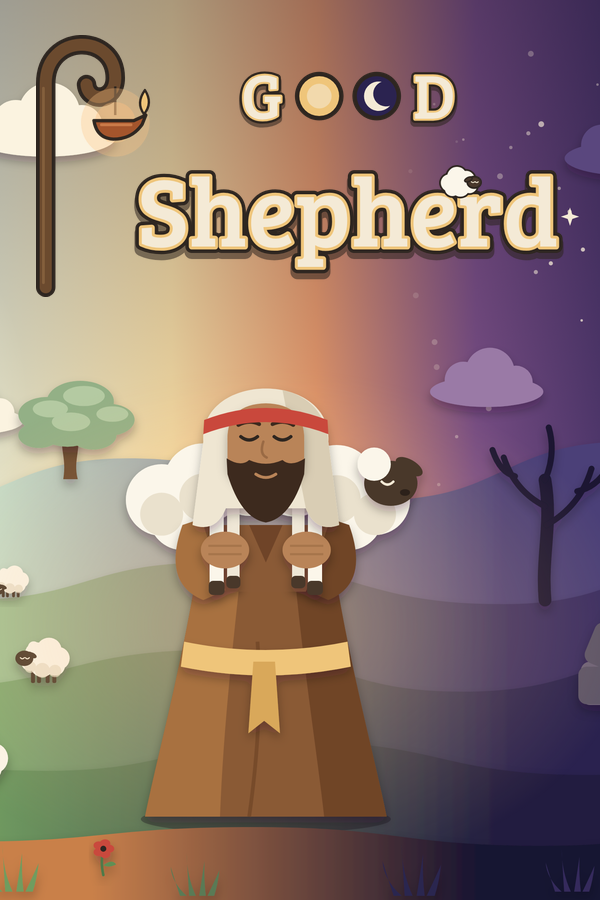
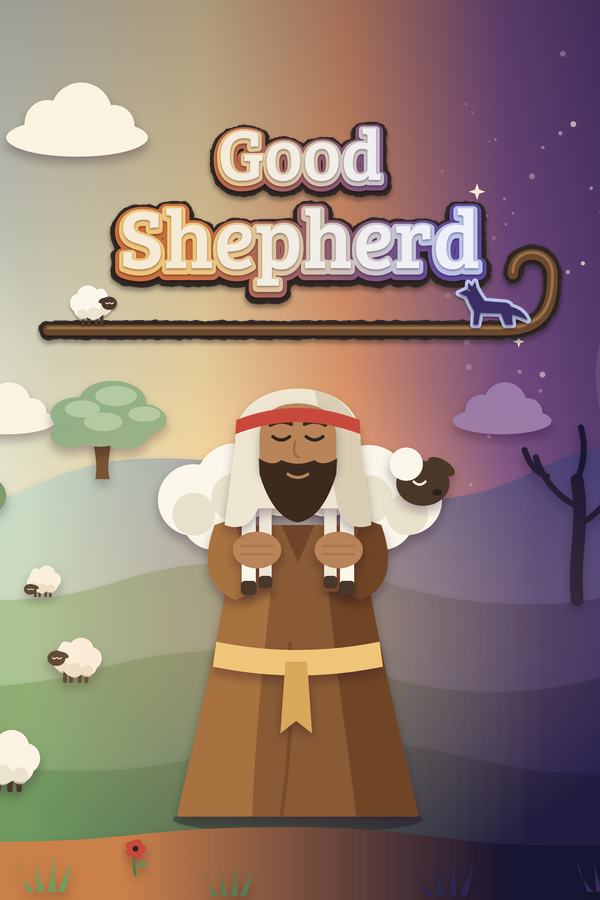
Title as layered cut paper, clear of the shepherd and of the top-left corner
- lettering built from stacked sheets (torn dark back, two coloured sheets, the face), turning from
  day colours to night colours left to right; the staff lies under it with a sheep on its day end
  and a wolf on its night end; no sun or moon in the word
- wide formats carry the name on the night sky to the shepherd's right, tall ones above him with
  the top band clear; the small capsule puts him at the left edge and the name beside him
- the moon sits low behind the wolf on the ridge, leaving the sky above for the name

Claude-Session: https://claude.ai/code/session_01VpcujKa2SduHoRcPjGQsic

diff --git a/tools/brand.py b/tools/brand.py
@@ -70,34 +70,73 @@ def sheep(cx, cy, s=1.0, face_right=True):
         f'<path d="M{hx-10*s},{cy} q{6*s},{6*s} {12*s},0 M{hx+4*s},{cy} q{5*s},{6*s} {10*s},0" stroke="{PAPER}" stroke-width="{3.2*s}" fill="none" stroke-linecap="round"/>')
 
 
+def paper_defs(w):
+    """Filters and the day-to-night gradients the title's sheets are cut from."""
+    def lg(i, a, b):
+        return (f'<linearGradient id="{i}" gradientUnits="userSpaceOnUse" x1="0" y1="0" x2="{w}" y2="0"><stop offset=".30" stop-color="{a}"/>'
+                f'<stop offset=".78" stop-color="{b}"/></linearGradient>')
+    return ('<defs><filter id="lp" x="-10%" y="-25%" width="120%" height="160%"><feDropShadow dx="0" dy="7" stdDeviation="6" flood-color="#120c18" flood-opacity=".5"/></filter>'
+            '<filter id="lp2" x="-10%" y="-25%" width="120%" height="160%"><feDropShadow dx="0" dy="3" stdDeviation="2.5" flood-color="#120c18" flood-opacity=".42"/></filter>'
+            '<filter id="paper" x="-20%" y="-20%" width="140%" height="150%"><feDropShadow dx="0" dy="4" stdDeviation="3" flood-color="#120c18" flood-opacity=".45"/></filter>'
+            # the back sheet is torn, not cut: a rough edge, as on an old dungeon map
+            '<filter id="torn" x="-10%" y="-25%" width="120%" height="160%"><feTurbulence type="fractalNoise" baseFrequency="0.045" numOctaves="2" seed="4" result="n"/>'
+            '<feDisplacementMap in="SourceGraphic" in2="n" scale="9" xChannelSelector="R" yChannelSelector="G" result="d"/>'
+            '<feDropShadow in="d" dx="0" dy="7" stdDeviation="6" flood-color="#120c18" flood-opacity=".5"/></filter>'
+            + lg("sh2", "#c9703f", "#5f4a9a") + lg("sh3", GOLD, "#b9c2ea") + lg("face", PAPER, "#eef0fa") + '</defs>')
+
+
+# the sheets of the lettering, back to front: (fill, how far it shows round the letter as a share of the size)
+SHEETS = [(INK, 0.150), ("url(#sh2)", 0.098), ("url(#sh3)", 0.050)]
+
+
+def paper_text(text, x, y, size, anchor="middle", spacing=0):
+    """Layered cut-paper lettering: a torn dark sheet at the back, then two coloured sheets, each
+    smaller than the one under it and casting its own shadow, then the face. Left to right the
+    sheets turn from the day's colours (terracotta, gold, cream) to the night's (plum, moonlight)."""
+    a = f'x="{x}" y="{y}" font-size="{size}" text-anchor="{anchor}" letter-spacing="{spacing}"'
+    out = ""
+    for k, (col, grow) in enumerate(SHEETS):
+        drop = size * 0.022 * (len(SHEETS) - k)
+        out += (f'<g filter="url(#{"torn" if k == 0 else "lp2"})"><text {a} transform="translate(0,{drop:.1f})" fill="{col}" stroke="{col}" '
+                f'stroke-width="{size*grow*2:.1f}">{text}</text></g>')
+    return out + f'<g filter="url(#lp2)"><text {a} fill="url(#face)">{text}</text></g>'
+
+
+def paper_staff(x0, x1, y, s=1.0):
+    """The crook lying on its side under the name, layered like the letters, its hook rising at
+    the right; a sheep stands on its day end and a wolf on its night end, facing each other."""
+    d = f"M{x0},{y} L{x1-120*s},{y} C{x1-10*s},{y} {x1},{y-70*s} {x1},{y-130*s} C{x1},{y-200*s} {x1-96*s},{y-200*s} {x1-96*s},{y-136*s}"
+    out = f'<g filter="url(#torn)"><path d="{d}" fill="none" stroke="{INK}" stroke-width="{46*s}" stroke-linecap="round" stroke-linejoin="round"/></g>'
+    out += f'<g filter="url(#lp2)"><path d="{d}" fill="none" stroke="{WOOD}" stroke-width="{26*s}" stroke-linecap="round" stroke-linejoin="round"/></g>'
+    out += f'<path d="{d}" fill="none" stroke="#9a7048" stroke-width="{7*s}" stroke-linecap="round" stroke-linejoin="round" transform="translate(0,{-5*s})"/>'
+    top = y - 13 * s
+    out += scene.sheep(x0 + 104 * s, top - 74 * 0.7 * s, 0.7 * s, True)
+    wx = x1 - 150 * s
+    # the wolf is cut from night paper with a moonlit sheet behind it, so it shows on any ground
+    rim = scene.wolf(wx, top, 0.36 * s, "#b9c2ea")
+    out += (f'<g transform="translate({2*wx},0) scale(-1,1)"><g stroke="#b9c2ea" stroke-width="{16*s}" stroke-linejoin="round">{rim}</g>'
+            f'{scene.wolf(wx, top, 0.36 * s, "#3a2f62")}</g>')
+    return out
+
+
 def logo_stacked(w=1280, h=720, tagline=True, with_crook=True):
-    cx = 770
-    g = ['<g>']
-    if with_crook:   # (left off where the art already shows the shepherd's own crook)
-        g.append(crook(118, 70, 600, 1.0))
-    # GOOD, with a sun and a moon for its two O's: the day and the night of the game
-    g.append(layered("G", cx - 186, 236, 138))
-    g.append(sun(cx - 62, 187, 43))
-    g.append(moon(cx + 62, 187, 43))
-    g.append(layered("D", cx + 186, 236, 138))
-    g.append(layered("Shepherd", cx, 512, 212))
-    g.append(sheep(1010, 372, 0.62))   # one lamb, up on the letters
+    """The title: two lines of layered paper lettering over the shepherd's staff, a sheep on one
+    end of it and a wolf on the other."""
+    g = [paper_defs(w)]
+    g.append(paper_text("Good", 640, 232, 176))
+    g.append(paper_text("Shepherd", 640, 446, 204))
+    if with_crook:
+        g.append(paper_staff(30, 1252, 596))
     if tagline:
-        g.append(f'<text x="{cx}" y="640" font-size="38" text-anchor="middle" fill="{PAPER}" stroke="{INK}" stroke-width="9" style="font-family:Bree">Tend the flock by day. Go after the one by night.</text>')
-    g.append('</g>')
+        g.append(f'<text x="640" y="690" font-size="36" text-anchor="middle" fill="{PAPER}" stroke="{INK}" stroke-width="9">Tend the flock by day. Go after the one by night.</text>')
     return f'<svg xmlns="http://www.w3.org/2000/svg" width="{w}" height="{h}" viewBox="0 0 {w} {h}">{STYLE}{"".join(g)}</svg>'
 
 
 def logo_line(w=1500, h=330, with_crook=True):
-    """One line, for small spaces: crook, Good (sun and moon for the o's), Shepherd."""
-    size, base = 190, 236
-    r, cy = size * 0.235, base - size * 0.245
-    g = [crook(66, 44, 304, 0.6, lamp=False)] if with_crook else []
-    g.append(layered("G", 262, base, size))
-    g.append(sun(366, cy, r))
-    g.append(moon(478, cy, r))
-    g.append(layered("d", 578, base, size))
-    g.append(layered("Shepherd", 1058, base, size))
+    """One line, for small spaces."""
+    g = [paper_defs(w), paper_text("Good Shepherd", 750, 176, 150)]
+    if with_crook:
+        g.append(paper_staff(24, 1476, 290, 0.74))
     return f'<svg xmlns="http://www.w3.org/2000/svg" width="{w}" height="{h}" viewBox="0 0 {w} {h}">{STYLE}{"".join(g)}</svg>'
 
 
@@ -149,9 +188,9 @@ def main():
     for name, svg in [("logo-stacked.svg", logo_stacked()), ("logo-one-line.svg", logo_line()), ("mark-circle.svg", mark(1024, "circle")), ("mark-app.svg", mark(1024, "squircle"))]:
         open(os.path.join(logo_dir, name), "w").write(svg)
     jobs = [(logo_stacked(), 1280, 720, os.path.join(B, "steam/library-logo-1280x720.png")),
-            (logo_stacked(tagline=False), 1280, 720, os.path.join(tmp, "stack.png")),   # the crook and lamp live in the title
+            (logo_stacked(tagline=False), 1280, 720, os.path.join(tmp, "stack.png")),
             (logo_stacked(tagline=False), 1280, 720, os.path.join(logo_dir, "logo-stacked-1280x720.png")),
-            (logo_line(with_crook=False), 1500, 330, os.path.join(tmp, "line.png")),
+            (logo_line(), 1500, 330, os.path.join(tmp, "line.png")),
             (logo_line(), 1500, 330, os.path.join(logo_dir, "logo-one-line-1500x330.png")),
             (mark(1024, "circle"), 1024, 1024, os.path.join(tmp, "mark.png")),
             (scene.scene(), scene.W, scene.H, os.path.join(tmp, "scene.png")),
@@ -193,23 +232,25 @@ def compose(tmp, logo_dir):
     line = Image.open(os.path.join(tmp, "line.png")).convert("RGBA")
     mark_img = Image.open(os.path.join(tmp, "mark.png")).convert("RGBA")
     # name, size, focus x, focus y (1 = keep the ground, trim sky), which logo, logo box (x, y, w, h as fractions)
+    # The name never covers the shepherd and never sits in the top-left corner, where Steam
+    # hangs its own flags: on wide formats it goes on the night sky to his right, on tall ones
+    # in the sky above him with the top band left clear.
     plan = [
-        ("goodshepherd-key-art-1920x1080.png", (1920, 1080), 0.50, 1.0, stack, (0.03, 0.04, 0.42, 0.38)),
-        ("steam/main-capsule-1232x706.png", (1232, 706), 0.50, 1.0, stack, (0.025, 0.04, 0.44, 0.40)),
-        ("steam/header-capsule-920x430.png", (920, 430), 0.50, 0.93, stack, (0.02, 0.05, 0.45, 0.60)),
-        ("steam/small-capsule-462x174.png", (462, 174), 0.50, 0.80, line, (0.04, 0.16, 0.92, 0.68)),
-        ("steam/vertical-capsule-748x896.png", (748, 896), 0.545, 1.0, stack, (0.07, 0.03, 0.86, 0.33)),
-        ("steam/library-capsule-600x900.png", (600, 900), 0.55, 1.0, stack, (0.06, 0.035, 0.88, 0.30)),
-        ("steam/package-header-1414x464.png", (1414, 464), 0.50, 0.88, stack, (0.02, 0.06, 0.38, 0.68)),
-        ("social/x-bluesky-header-1500x500.png", (1500, 500), 0.50, 0.88, stack, (0.03, 0.07, 0.36, 0.68)),
-        ("social/youtube-banner-2560x1440.png", (2560, 1440), 0.50, 1.0, stack, (0.20, 0.36, 0.27, 0.27)),
-        ("social/portrait-post-1080x1350.png", (1080, 1350), 0.545, 1.0, stack, (0.08, 0.035, 0.84, 0.30)),
+        ("goodshepherd-key-art-1920x1080.png", (1920, 1080), 0.50, 1.0, stack, (0.595, 0.045, 0.385, 0.36)),
+        ("steam/main-capsule-1232x706.png", (1232, 706), 0.50, 1.0, stack, (0.595, 0.045, 0.385, 0.36)),
+        ("steam/header-capsule-920x430.png", (920, 430), 0.56, 0.93, stack, (0.60, 0.05, 0.385, 0.50)),
+        ("steam/small-capsule-462x174.png", (462, 174), 0.80, 0.86, line, (0.315, 0.10, 0.67, 0.80)),
+        ("steam/vertical-capsule-748x896.png", (748, 896), 0.53, 1.0, stack, (0.08, 0.125, 0.84, 0.28)),
+        ("steam/library-capsule-600x900.png", (600, 900), 0.53, 1.0, stack, (0.06, 0.13, 0.88, 0.26)),
+        ("steam/package-header-1414x464.png", (1414, 464), 0.58, 0.90, stack, (0.60, 0.06, 0.38, 0.60)),
+        ("social/x-bluesky-header-1500x500.png", (1500, 500), 0.58, 0.90, stack, (0.60, 0.06, 0.38, 0.60)),
+        ("social/youtube-banner-2560x1440.png", (2560, 1440), 0.50, 1.0, stack, (0.575, 0.355, 0.225, 0.21)),
+        ("social/portrait-post-1080x1350.png", (1080, 1350), 0.53, 1.0, stack, (0.08, 0.12, 0.84, 0.27)),
     ]
     for name, (w, h), fx, fy, logo, (lx, ly, lw, lh) in plan:
         art = crop_art(master, w, h, fx, fy).convert("RGBA")
-        if logo is line:   # a small capsule is read at thumbnail size: quiet the art so the name carries
-            veil = Image.new("RGBA", (w, h), (46, 38, 32, 96))
-            art = Image.alpha_composite(art, veil)
+        if logo is line:   # the small capsule: the shepherd at the left edge, the name across the night beside him
+            art = master.crop((1650, 1010, 3840, 1835)).resize((w, h), Image.LANCZOS).convert("RGBA")
         lg = fit_logo(logo, lw * w, lh * h)
         art.alpha_composite(lg, (int(lx * w + (lw * w - lg.width) / 2), int(ly * h + (lh * h - lg.height) / 2)))
         art.convert("RGB").save(os.path.join(B, name))

diff --git a/tools/scene.py b/tools/scene.py
@@ -168,12 +168,13 @@ def scene():
         sy = rnd.uniform(30, 1180)
         r = rnd.choice([3, 4, 5, 7])
         d.append(f'<circle cx="{sx:.0f}" cy="{sy:.0f}" r="{r}" fill="{PAPER}" opacity="{rnd.uniform(0.35, 0.95) * min(1.0, (sx - 2300) / 500):.2f}"/>')
-    for sx, sy, r in [(2760, 520, 22), (3560, 300, 26), (3040, 880, 18), (3700, 960, 20), (2900, 1000, 14)]:
+    for sx, sy, r in [(2460, 460, 20), (3740, 260, 24), (3700, 900, 20), (2560, 820, 14)]:
         d.append(f'<path d="M{sx},{sy-r} L{sx+r*0.25},{sy-r*0.25} L{sx+r},{sy} L{sx+r*0.25},{sy+r*0.25} L{sx},{sy+r} L{sx-r*0.25},{sy+r*0.25} L{sx-r},{sy} L{sx-r*0.25},{sy-r*0.25}Z" fill="{PAPER}"/>')
-    d.append(f'<g filter="url(#paper)"><path d="M3330,560 a170,170 0 1,0 135,305 a143,143 0 1,1 -135,-305z" fill="#f6ecd2"/></g>')
+    # the moon sits low on the night ridge, behind the wolf: the sky above it is left for the title
+    d.append(f'<circle cx="3075" cy="900" r="330" fill="#f6ecd2" opacity=".10"/><g filter="url(#paper)"><circle cx="3075" cy="900" r="188" fill="#f6ecd2"/></g><circle cx="3020" cy="850" r="34" fill="#e6dcc0"/><circle cx="3140" cy="960" r="22" fill="#e6dcc0"/><circle cx="3120" cy="820" r="14" fill="#e6dcc0"/>')
     # the sun, its glow, and paper clouds on the day side
     d.append(f'<circle cx="900" cy="960" r="560" fill="url(#sunglow)"/><g filter="url(#paper)"><circle cx="900" cy="960" r="190" fill="{GOLD}"/></g><circle cx="900" cy="960" r="142" fill="#f8dfa2"/>')
-    d.append(cloud(330, 900, 1.1) + cloud(1500, 330, 1.0, "#fbf3e0") + cloud(1330, 1010, 0.7, "#fbf3e0") + cloud(2560, 940, 0.8, "#9a7aa6") + cloud(520, 300, 1.2) + cloud(2900, 380, 0.9, "#5a477e"))
+    d.append(cloud(330, 900, 1.1) + cloud(1500, 330, 1.0, "#fbf3e0") + cloud(1330, 1010, 0.7, "#fbf3e0") + cloud(2520, 1010, 0.7, "#9a7aa6") + cloud(520, 300, 1.2) + cloud(3560, 1000, 0.6, "#5a477e"))
     # far hills, a lone wolf on the night ridge
     d.append(hill(1, [(0, 1250), (520, 1130), (1100, 1230), (1700, 1100), (2300, 1200), (2900, 1060), (3400, 1160), (W, 1100)]))
     d.append(wolf(3010, 1068, 0.62))
